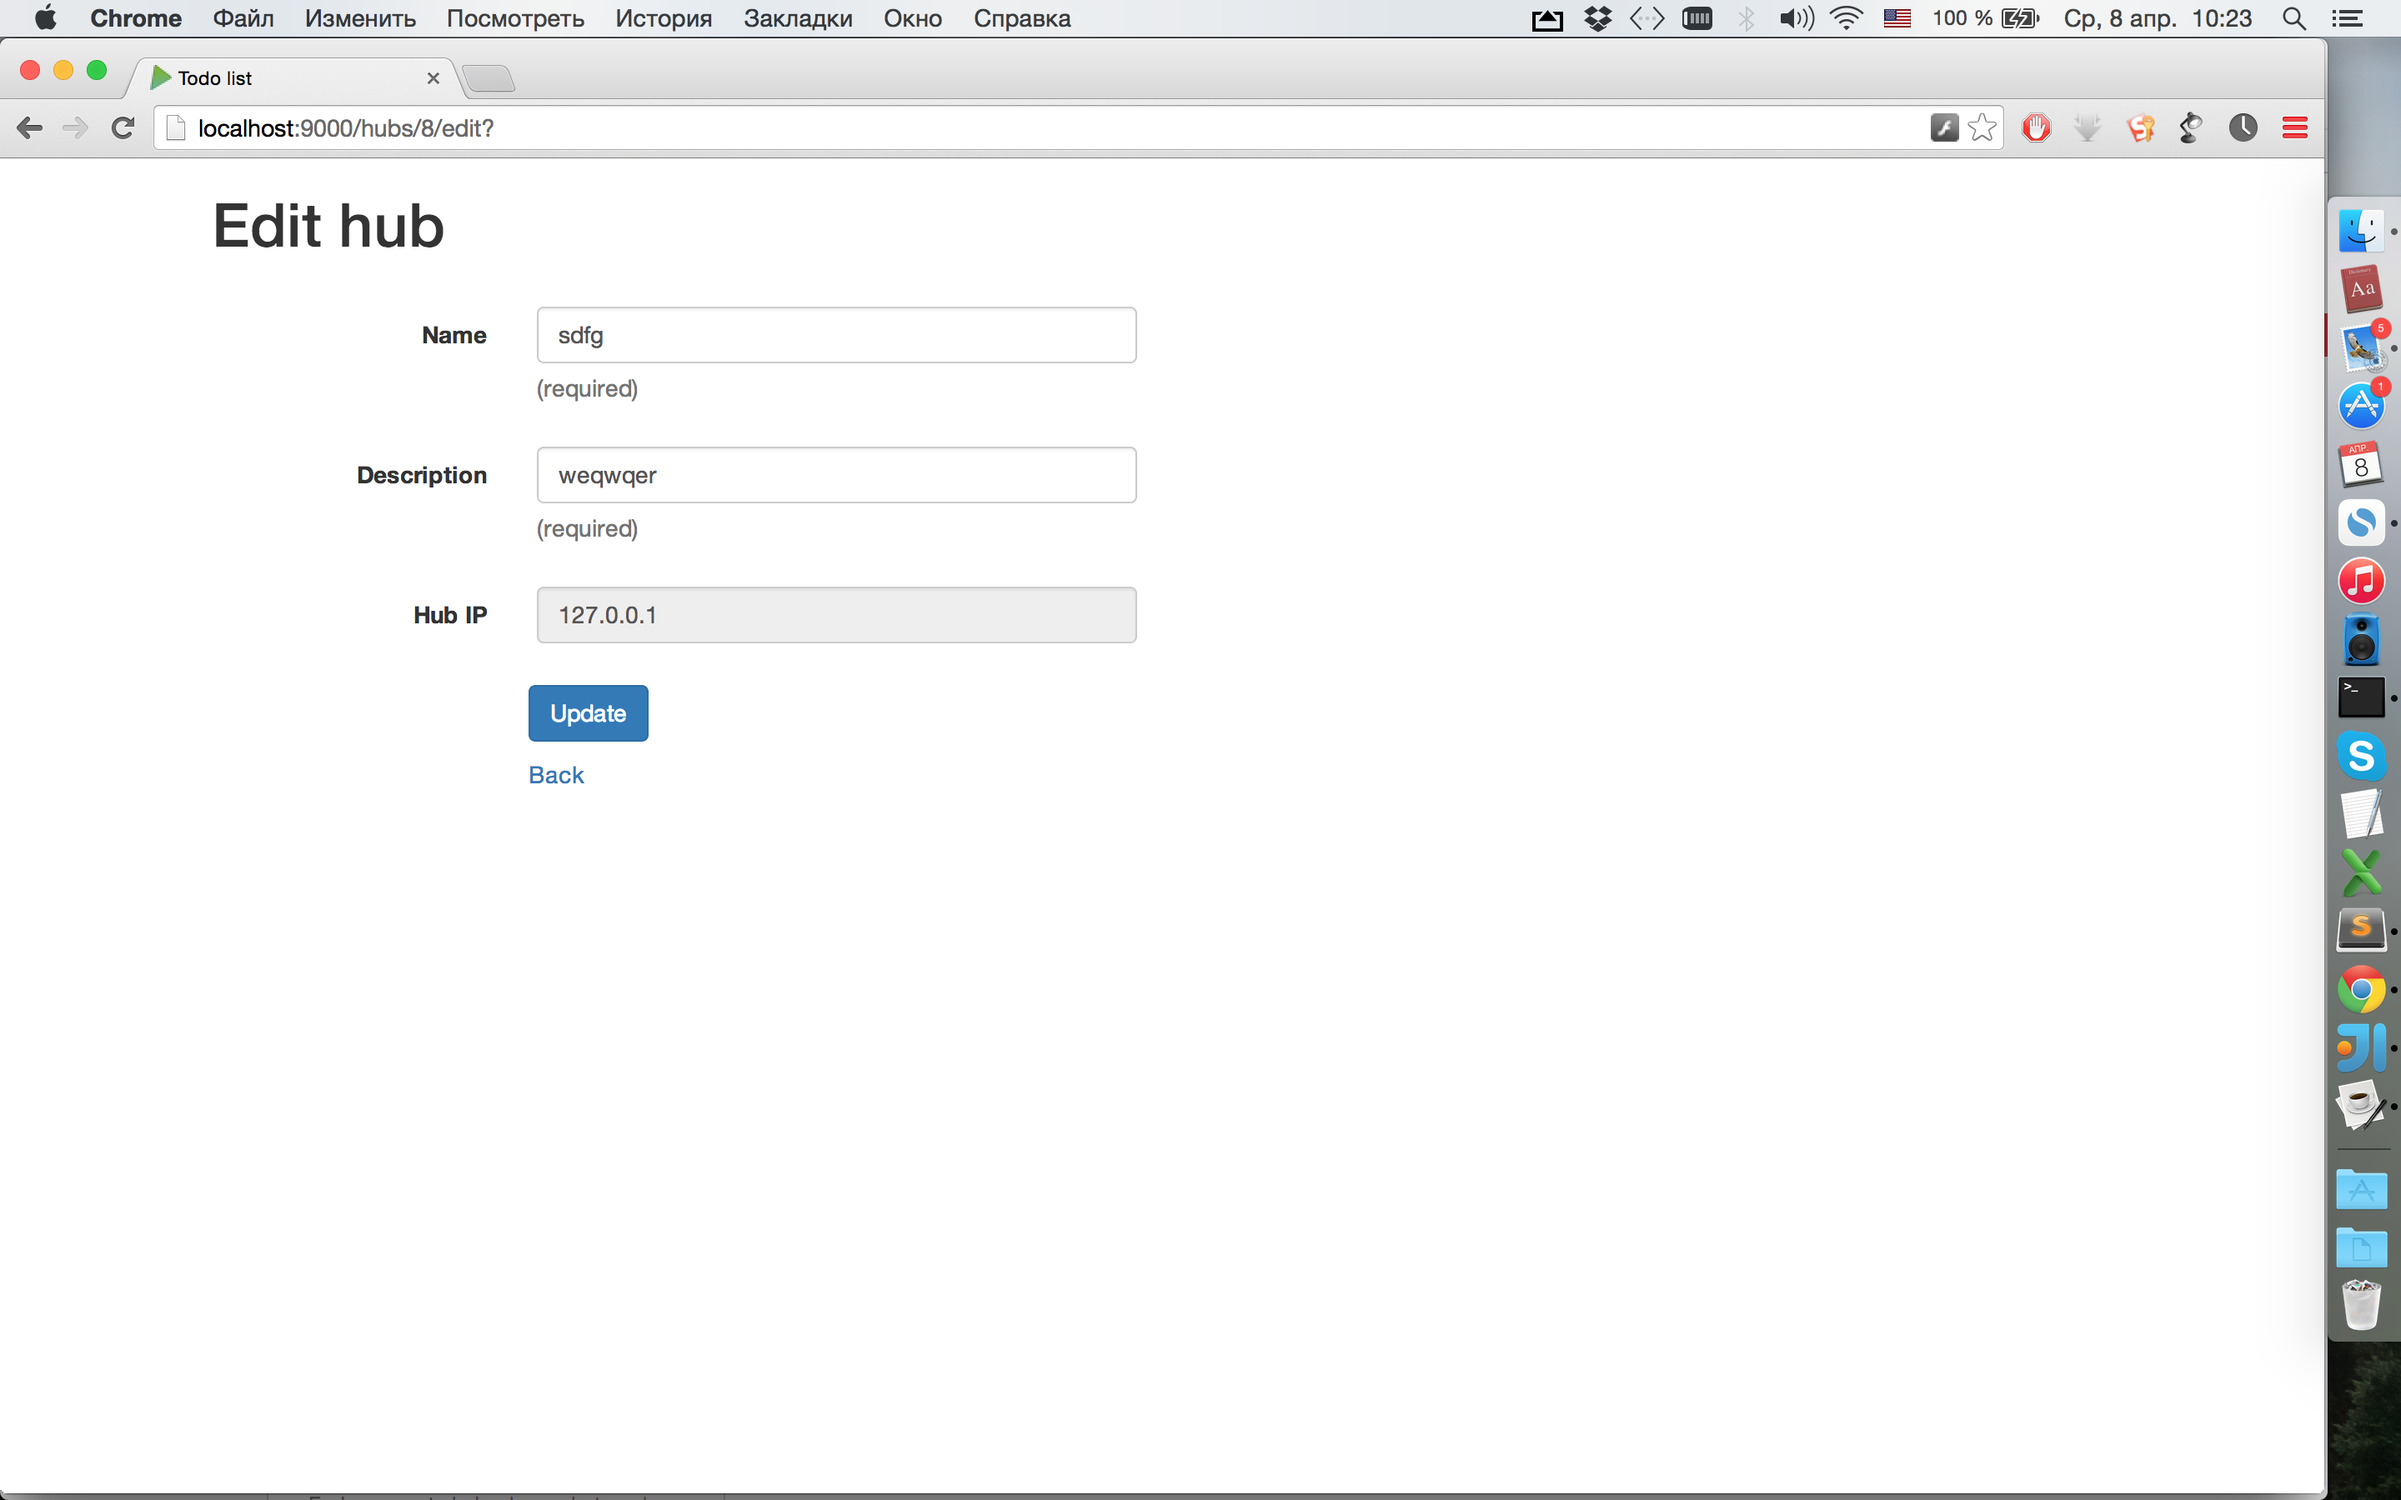
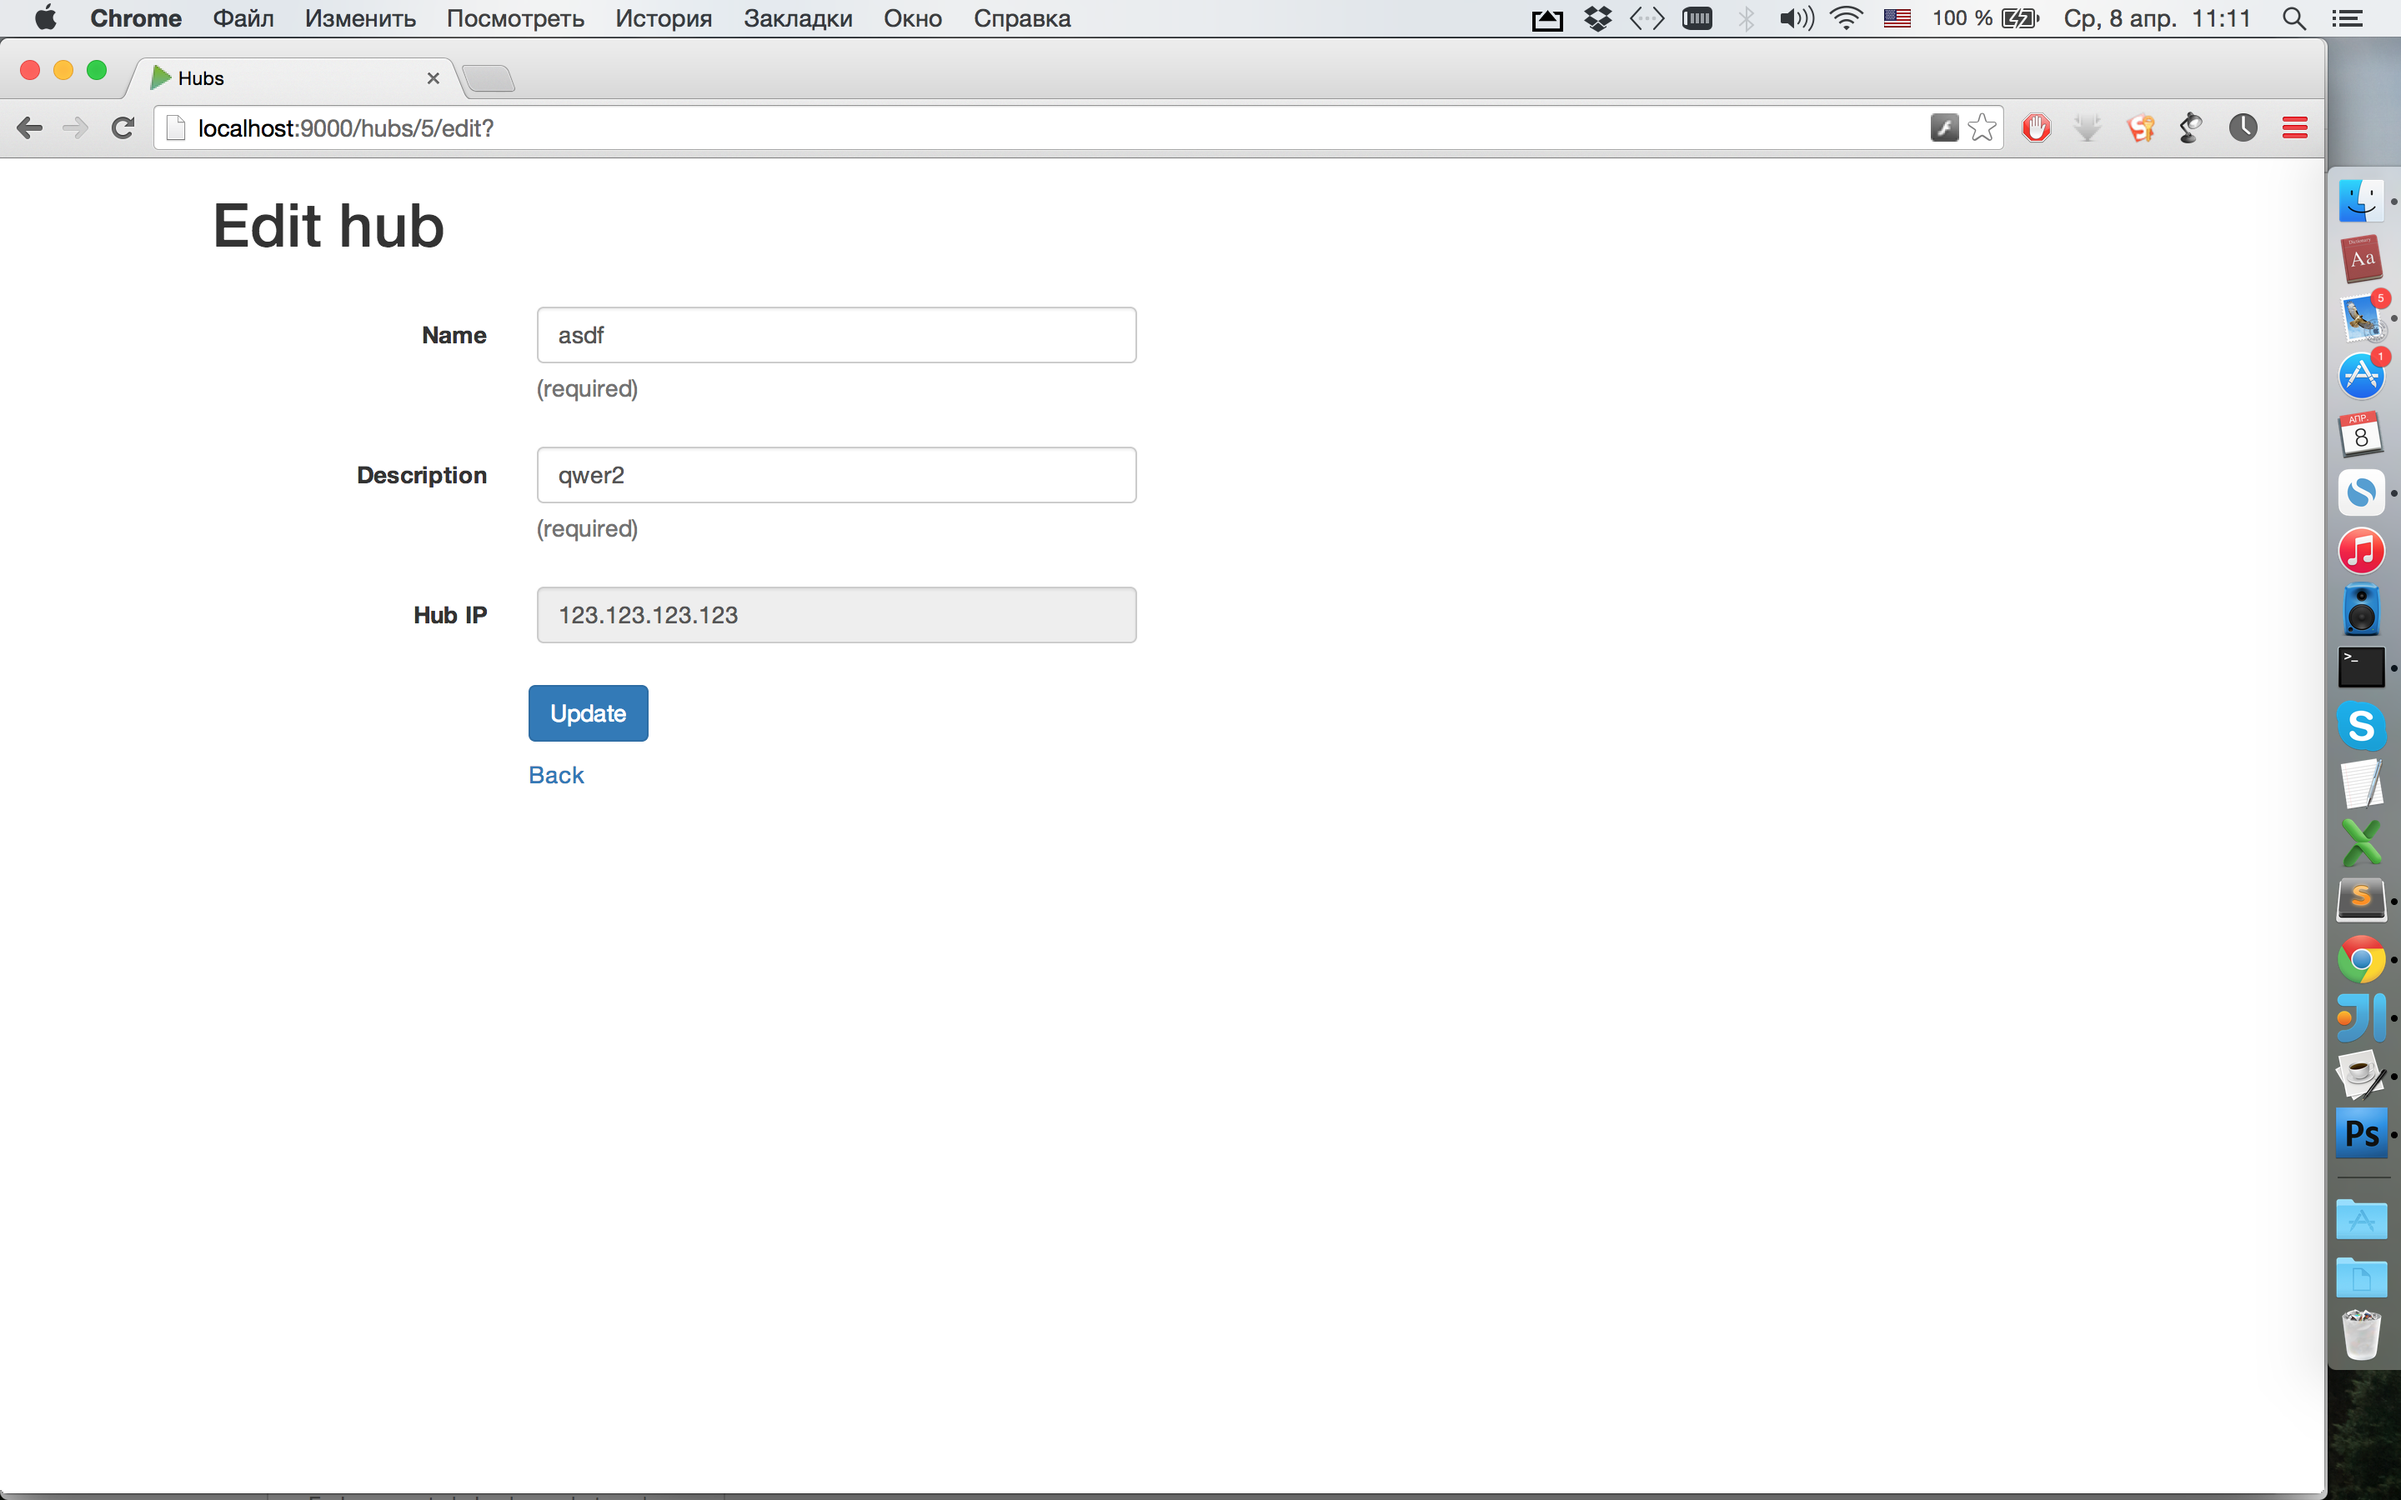
Fix page titles and screenshots

diff --git a/app/views/index.scala.html b/app/views/index.scala.html
@@ -3,7 +3,7 @@
 
 @(hubs: List[Hub])( implicit request: RequestHeader)
 
-@main(title = "Hub list") {
+@main(title = "Hubs") {
     <h1>Hubs</h1>
 
     <div class="flash">

diff --git a/app/views/newhub.scala.html b/app/views/newhub.scala.html
@@ -2,7 +2,7 @@
 
 @import helper._
 
-@main("Todo list") {
+@main("Hubs") {
 
   <h1>Create new hub</h1><br>
 

diff --git a/app/views/edithub.scala.html b/app/views/edithub.scala.html
@@ -2,7 +2,7 @@
 
 @import helper._
 
-@main("Todo list") {
+@main("Hubs") {
 
   <h1>Edit hub</h1><br>
 
